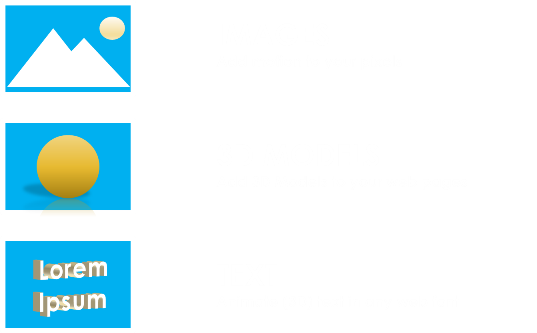
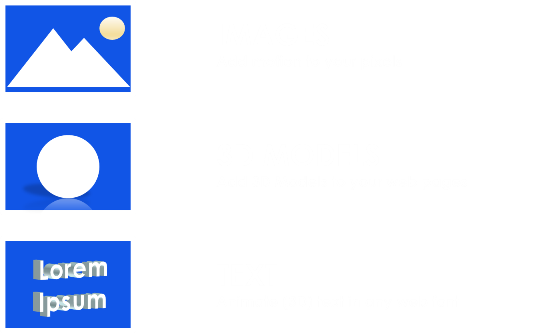
Changes to colors and text

Changed region(s): [[0.0, 0.3604, 0.2682, 0.6607], [0.0, 0.7207, 0.2682, 0.991], [0.0, 0.0, 0.2682, 0.3003]]

diff --git a/index.html b/index.html
@@ -62,7 +62,7 @@
 	                <h1 class="title-text">
 	                	<img src="src/theme/img/fw1.png"/>
 	                </h1>
-	                <div style="font-size: 16px; font-weight: bold; padding-bottom: 20px;">An online tool for creating visual motion effects for the web.</div>
+	                <div class="subtitle">An online tool for creating visual motion effects for the web.</div>
 	                <br/>
 				    <a href="#explain" class="btn page-scroll"
 				    data-toggle="tooltip" data-placement="bottom" title="Find Out More"
@@ -77,44 +77,33 @@
         	</div>
 	    </header>
 	    <section class="bg-primary"  id="explain">
-	    	<hr />
-	    	<div class="container text-center">
-	    		<h1 class="section-heading" style="font-size: 62.5px;">What Flitwick Lets You Do</h1>
-	    	</div>
-
 	    	<div id="explainCarousel" class="carousel slide" data-ride="carousel">
 				<!-- Indicators -->
 				
 		      	<div class="carousel-inner" role="listbox">
 			      	<div class="item active">
-			      		<div class="carousel-heading">
+			      		<div class="carousel-heading taller">
 			      			Add motion to all your assets
 			      		</div>
 			        	<img class="slide-img" src="/src/theme/img/sld1.png" />
 			        </div>
 					<div class="item">
-						<div class="carousel-heading">
+						<div class="carousel-heading taller">
 							Work with the elements to add beautiful visual effects
 						</div>
 						<img class="slide-img" src="/src/theme/img/sld2.png" />
 					</div>
 		        	<div class="item">
-		        		<div class="carousel-heading">
+		        		<div class="carousel-heading taller">
 		        			Use templates to create dazzling components
 		        		</div>
 		          		<img class="slide-img" src="/src/theme/img/sld3.png" />
-		        	</div>
-		        	<div class="item" style="text-align:center;">
-		        		<div style="width: 100% height: 20%; margin: auto; font-size: 26px; font-weight: bold; padding: 12%;">
-		        			Scroll Down to See Examples
-		        		</div>
 		        	</div>
 		      	</div>
 		      	<ol class="carousel-indicators">
 					<li data-target="#explainCarousel" data-slide-to="0" class="active"></li>
 					<li data-target="#explainCarousel" data-slide-to="1"></li>
 					<li data-target="#explainCarousel" data-slide-to="2"></li>
-					<li data-target="#explainCarousel" data-slide-to="3"></li>
 				</ol>
 				<a class="left carousel-control" href="#explainCarousel" role="button" data-slide="prev">
 					<span class="glyphicon glyphicon-chevron-left" aria-hidden="true"></span>
@@ -128,21 +117,11 @@
 		  </section>
 	    
 	    <section class="bg-primary" id="play" style="margin-top: -100px;">
-	    	<hr/>
 	    	<div class="container">
-	            <div class="row">
-	                <div class="col-lg-8 col-lg-offset-2 text-center">
-	                    <h1 class="section-heading">Examples</h1>
-	                    <div><br/><br/></div>
-	                </div>
-	                <br/>
-	            </div>
-	        </div>
-	        <div class="container">
 	            <div class="row" >
 	                <div class="col-lg-6 text-center" id="lightFx">
 	                	<div class="effect-holder">
-		                    <h2 class="section-heading">Light</h2>
+		                    <h2 class="carousel-heading">Light</h2>
 		                    <p>Light is what lets you see.</p>
 		                </div>
 		                <div class="text-center effect-holder-outer">
@@ -152,7 +131,7 @@
 	            	</div>
 	            	<div class="col-lg-6 text-center" id="colorFx">
 	            		 <div class="effect-holder">
-		                	<h2 class="section-heading">Color</h2>
+		                	<h2 class="carousel-heading">Color</h2>
 		                    <p>Bring out your true colors in Flitwick.</p>
 		                </div>
 		                <div class="text-center effect-holder-outer">
@@ -164,10 +143,10 @@
 	            
 	            <br/>
 	            
-	            <div class="row black-row">  
+	            <div class="row">  
 	            	<div class="col-lg-6 text-center" id="shapeFx">
 	            		<div class="effect-holder">
-		                    <h2 class="section-heading">Shape</h2>
+		                    <h2 class="carousel-heading">Shape</h2>
 		                    <p>Make objects dance to your tunes with Flitwick.</p>
 		                </div>
 		                <div class="text-center effect-holder-outer">
@@ -177,7 +156,7 @@
 		            </div>
 		            <div class="col-lg-6 text-center" id="cameraFx">
 	            		<div class="effect-holder">
-		                    <h2 class="section-heading">Cameras</h2>
+		                    <h2 class="carousel-heading">Cameras</h2>
 		                    <p>Flitwick helps your users experience your full 360 imagination.</p>
 		                </div>
 		                <div class="text-center effect-holder-outer">
@@ -188,25 +167,17 @@
 	            </div>
 	            <br/>
                 <div class="col-lg-8 col-lg-offset-2 text-center">
-                    <a href="#contact" class="btn btn-primary btn-xl">Sign Up for Private Beta</a>
                 </div>
 	        </div>
 	    </section>
 
 	     <section class="bg-primary" id="howworks"  style="margin-top: -100px;">
 	        <div class="container">
-	            <hr/>
-	    	 	<div class="row">
-	                <div class="col-lg-8 col-lg-offset-2 text-center">
-	                    <h1 class="section-heading">How it works</h1>
-	                </div>
-	            </div>
-	            <br/>
 	            <div class="row">
 	                <div class="col-lg-8 col-lg-offset-2 text-center">
-	                    <iframe width="622" height="350" src="https://www.youtube.com/embed/872Z-o9HRzg?showinfo=0" frameborder="0" allowfullscreen></iframe>
+	                    <iframe width="622" height="350" src="https://www.youtube.com/embed/872Z-o9HRzg?showinfo=0&rel=0" frameborder="0" allowfullscreen></iframe>
 	                    <br/><br/>
-	                    <a href="#contact" class="btn btn-primary btn-xl">Sign Up for Private Beta</a>
+	                   
 	                </div>
 	            </div>
 	        </div>
@@ -214,14 +185,7 @@
 	    
 	     <section class="bg-primary" id="features"  style="margin-top: -100px;">
 	    	 <div class="container">
-	    		<hr/>
-	    	 	<div class="row">
-	                <div class="col-lg-8 col-lg-offset-2 text-center">
-	                    <h1 class="section-heading">Features</h1>
-	                </div>
-	            </div>
-	            <br/>
-	            <table class="row">
+	    		<table class="row">
 	            	<tr class="row">
 	            		<td>
 		            		<table>

diff --git a/src/theme/css/creative.css b/src/theme/css/creative.css
@@ -55,7 +55,7 @@ p {
 }
 
 .bg-primary {
-    background-color: black; /* #0b8ff1; */
+    background-color: #1155E6; /* #0b8ff1; */
 }
 
 .bg-dark {
@@ -213,6 +213,11 @@ header .header-content .header-content-inner p {
     font-size: 16px;
     color: rgb(250,250,250);
     text-shadow: 1px 1px rgba(0, 0, 0, 0.6);
+}
+
+header .header-content .header-content-inner .subtitle {
+    font-size: 16px; font-weight: bold; padding-bottom: 20px;
+    color: #444444;
 }
 
 @media(min-width:768px) {
@@ -492,7 +497,7 @@ h1.title-text
 }
 
 .black-row {
-    background-color: rgba(0, 0, 0, 1.0);
+    background-color: rgba(0, 0, 0, 0.2);
     padding-top: 10px;
     padding-bottom: 40px;
     margin-top: 10px;
@@ -507,7 +512,7 @@ h1.title-text
 }
 
 .small-heading {
-    color:  #0b8ff1;
+    color:  #fff;
     font-weight: bold;
 }
 
@@ -663,8 +668,12 @@ h1.title-text
     padding: 10px;
 }
 
+.carousel-inner> .item > img {
+    height: 320px;
+}
 .slide-img {
     width: 550px;
+    height: 320px;
     margin: auto;
 }
 .carousel-heading {
@@ -672,7 +681,9 @@ h1.title-text
     font-weight: bold;
     margin: auto;
     text-align: center;
-    line-height: 3.4em;
+}
+.taller {
+    line-height: 3em;
 }
 .btm-scroll-btn {
     font-family: 'Glyphicons Halflings';
@@ -693,7 +704,10 @@ h1.title-text
     position: relative;
     margin: auto;
 }
+.effect-holder p {
+    color: #bdbaba;
+}
 
 .desc {
-    color: #fff;
+    color: #bdbaba;
 }

diff --git a/src/stubs/e7.js b/src/stubs/e7.js
@@ -15,7 +15,7 @@ var CarBox = (function() {
 		_jqParent = $(_parent);
 
 		var w = _jqParent.width(), h =  _jqParent.height();
-		effect.setTarget(objectURL, _parent, 375, 200);
+		effect.setTarget(objectURL, _parent, 375, 250);
 		effect.start();
 	}
 
